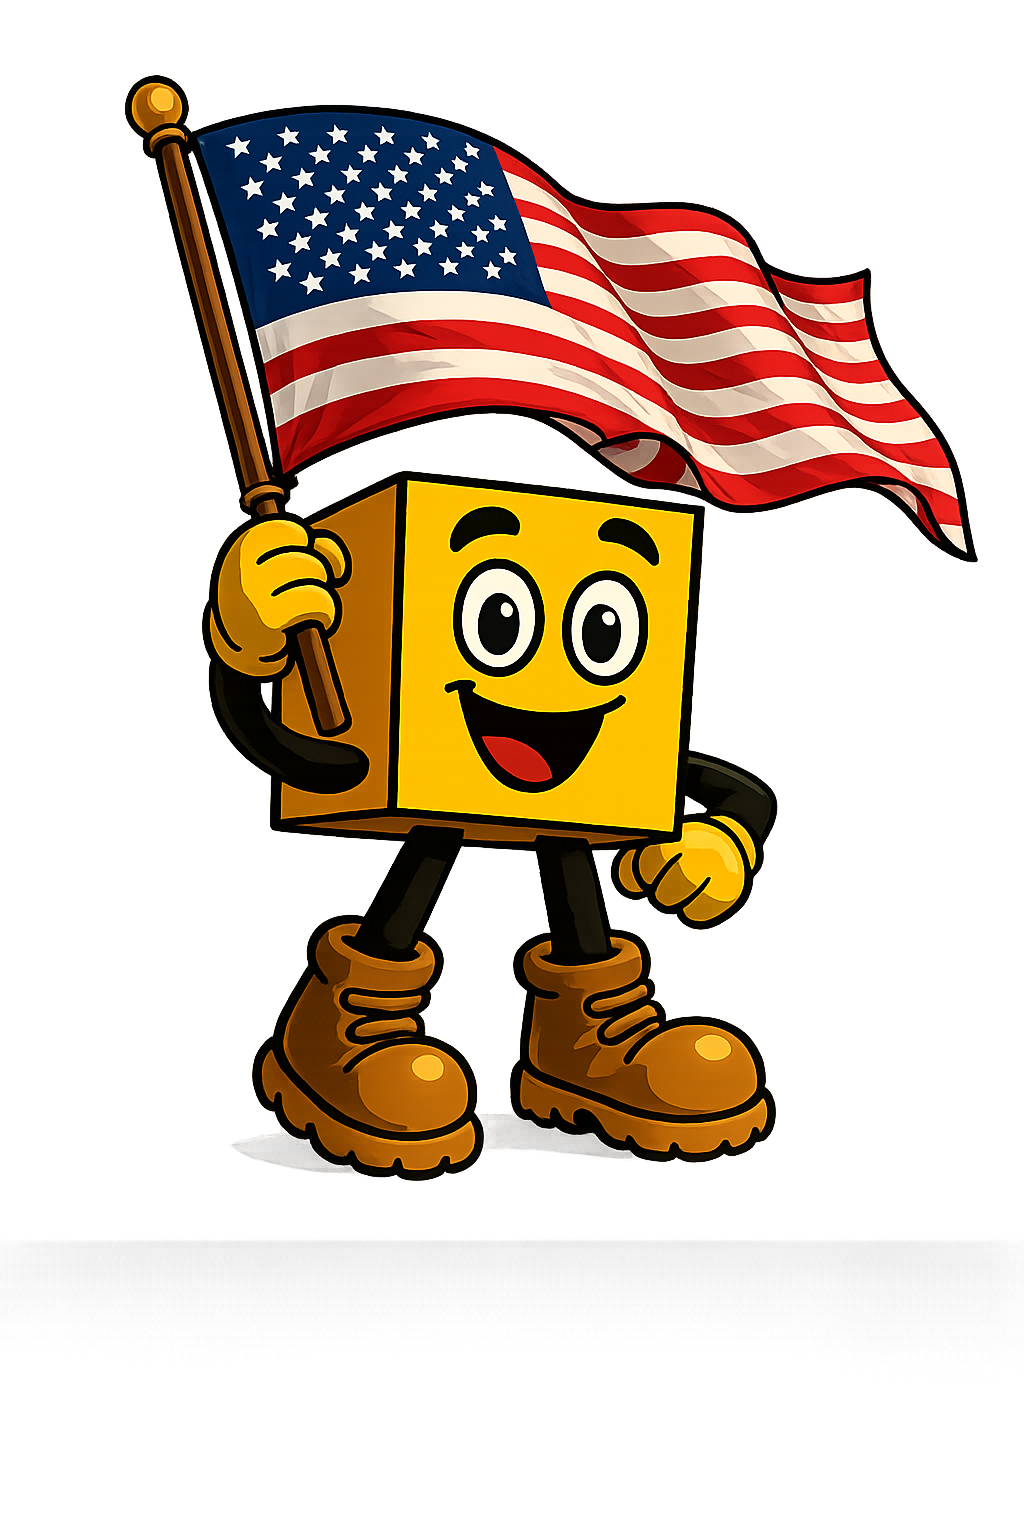
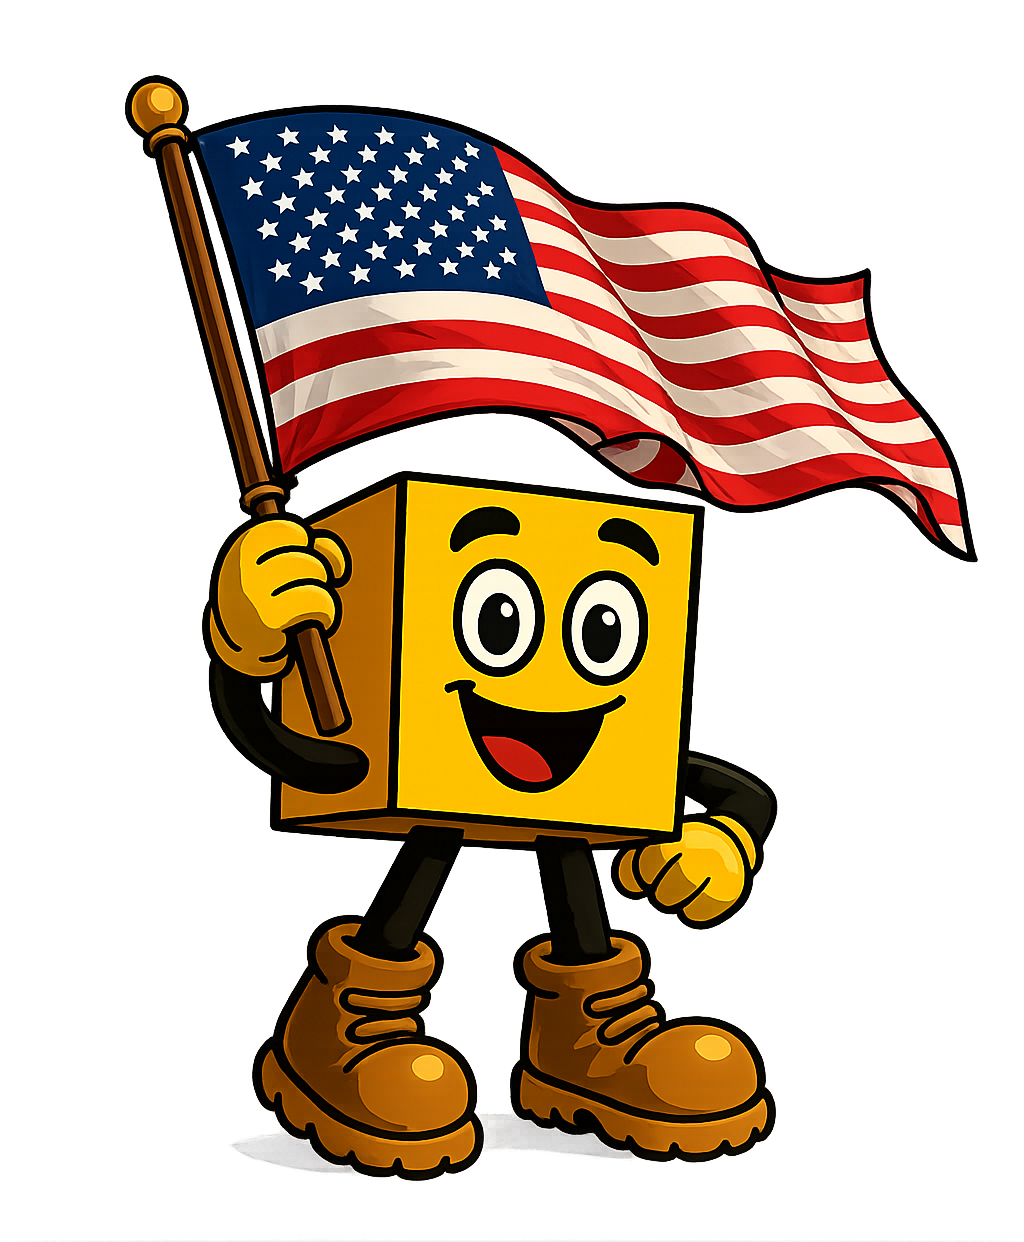
email blast weekly update

diff --git a/assets/emailblasts/weekly-2026-06-29.html b/assets/emailblasts/weekly-2026-06-29.html
@@ -1,0 +1,179 @@
+<!DOCTYPE html>
+<html lang="en" style="margin:0;padding:0;">
+  <head>
+    <meta charset="utf-8">
+    <meta name="x-apple-disable-message-reformatting">
+    <meta name="viewport" content="width=device-width, initial-scale=1">
+    <title>Daytona Supply - 4th of July Prep Guide</title>
+    <style type="text/css">
+      :root { color-scheme: light only; }
+      @media screen and (max-width: 600px) {
+        .container { width: 100% !important; }
+        .stack { display: block !important; width: 100% !important; }
+        .pad { padding-left: 16px !important; padding-right: 16px !important; }
+        .mobile-center { text-align: center !important; }
+        .mobile-space { padding-top: 14px !important; }
+        .hero-copy { padding: 24px 16px 14px 16px !important; }
+        .hero-art { padding: 0 16px 24px 16px !important; }
+        .cta { display: block !important; width: 100% !important; box-sizing: border-box !important; margin: 10px 0 0 0 !important; }
+      }
+    </style>
+  </head>
+  <body style="margin:0; padding:0; background:#edf2fa; font-family:-apple-system, BlinkMacSystemFont, 'Segoe UI', Roboto, Arial, sans-serif; color:#1f3050;">
+
+    <div style="display:none; max-height:0; overflow:hidden; opacity:0; visibility:hidden;">
+      Fourth of July is right around the corner. Restock shipping, cleaning, and breakroom essentials before the holiday rush.
+    </div>
+
+    <table role="presentation" width="100%" cellpadding="0" cellspacing="0" border="0" style="background:#edf2fa;">
+      <tr>
+        <td align="center" style="padding:24px 12px;">
+          <table role="presentation" class="container" width="640" cellpadding="0" cellspacing="0" border="0" style="width:640px; max-width:100%; background:#ffffff; border-radius:26px; overflow:hidden; box-shadow:0 10px 28px rgba(23, 55, 100, 0.14);">
+
+            <tr>
+              <td style="padding:0;">
+                <table role="presentation" width="100%" cellpadding="0" cellspacing="0" border="0">
+                  <tr>
+                    <td width="20%" style="font-size:0; line-height:0; height:8px; background:#be2c38;">&nbsp;</td>
+                    <td width="20%" style="font-size:0; line-height:0; height:8px; background:#ffffff;">&nbsp;</td>
+                    <td width="20%" style="font-size:0; line-height:0; height:8px; background:#1d3f73;">&nbsp;</td>
+                    <td width="20%" style="font-size:0; line-height:0; height:8px; background:#ffffff;">&nbsp;</td>
+                    <td width="20%" style="font-size:0; line-height:0; height:8px; background:#be2c38;">&nbsp;</td>
+                  </tr>
+                </table>
+              </td>
+            </tr>
+
+            <tr>
+              <td style="background:#173861; padding:18px 24px 16px 24px; color:#ffffff;">
+                <table role="presentation" width="100%" cellpadding="0" cellspacing="0" border="0">
+                  <tr>
+                    <td class="stack mobile-center" style="vertical-align:middle;">
+                      <a href="https://www.daytona-supply.com/" style="display:inline-block; text-decoration:none; border:0;">
+                        <img src="https://www.daytona-supply.com/assets/images/Logowhite.png" alt="Daytona Supply" height="30" style="display:block; height:30px; width:auto; border:0; outline:none; text-decoration:none;">
+                      </a>
+                    </td>
+                    <td class="stack mobile-center mobile-space" align="right" style="vertical-align:middle; font-size:12px; letter-spacing:1.2px; text-transform:uppercase; color:#dbe6f8;">
+                      Monday, June 29, 2026
+                    </td>
+                  </tr>
+                </table>
+              </td>
+            </tr>
+
+            <tr>
+              <td style="background:#173861; padding:0 0 28px 0;">
+                <table role="presentation" width="100%" cellpadding="0" cellspacing="0" border="0">
+                  <tr>
+                    <td class="stack hero-copy" width="52%" style="padding:30px 12px 8px 28px; vertical-align:top; color:#ffffff;">
+                      <div style="display:inline-block; padding:7px 12px; border-radius:999px; background:#be2c38; color:#ffffff; font-size:11px; font-weight:800; letter-spacing:1.2px; text-transform:uppercase;">
+                        Week of June 29
+                      </div>
+                      <div style="margin-top:18px; font-family:Georgia, 'Times New Roman', serif; font-size:42px; line-height:1.02; font-weight:700; letter-spacing:-0.5px; color:#ffffff;">
+                        4th of July
+                        <br>
+                        Restock Guide
+                      </div>
+                      <div style="margin-top:16px; max-width:270px; font-size:16px; line-height:1.8; color:#dbe6f8;">
+                        Holiday traffic ramps up fast. Lock in the basics now so your team can move through the week without supply gaps.
+                      </div>
+                    </td>
+                    <td class="stack hero-art mobile-center" width="48%" align="center" style="padding:24px 28px 0 12px; vertical-align:bottom;">
+                      <div style="background:#ffffff; border:4px solid #dbe5f4; border-radius:24px; padding:18px 12px 6px 12px;">
+                        <img src="https://www.daytona-supply.com/assets/images/Boxeywavingusflag.png?v=20260626" alt="Boxey waving a US flag" width="260" style="display:block; width:260px; max-width:100%; height:auto; margin:0 auto; border:0;">
+                        <div style="margin-top:10px; font-size:13px; line-height:1.5; color:#5d6e88;">
+                          Boxey says: don't be square, prepare!
+                        </div>
+                      </div>
+                    </td>
+                  </tr>
+                </table>
+              </td>
+            </tr>
+
+            <tr>
+              <td class="pad" style="padding:0 24px 24px 24px; background:#f7faff;">
+                <div style="margin-top:-2px; background:#ffffff; border:2px solid #d8e3f1; border-radius:22px; padding:24px 22px 20px 22px; text-align:center; box-shadow:0 8px 18px rgba(29, 63, 115, 0.06);">
+                  <div style="font-size:12px; font-weight:800; letter-spacing:1.3px; text-transform:uppercase; color:#be2c38;">
+                    Holiday week essentials
+                  </div>
+                  <div style="margin-top:10px; font-family:Georgia, 'Times New Roman', serif; font-size:30px; line-height:1.2; font-weight:700; color:#1f3050;">
+                    Restock what runs out first.
+                  </div>
+                  <div style="margin-top:12px; max-width:520px; margin-left:auto; margin-right:auto; font-size:15px; line-height:1.9; color:#54657e;">
+                    Before the 4th of July push, most teams burn through shipping supplies, cleaning products, and paper goods faster than expected.
+                  </div>
+
+                  <table role="presentation" width="100%" cellpadding="0" cellspacing="0" border="0" style="margin-top:18px;">
+                    <tr>
+                      <td class="stack" width="33.33%" style="padding:8px; vertical-align:top;">
+                        <div style="background:#f8fbff; border:1px solid #d8e3f1; border-radius:16px; padding:16px 12px;">
+                          <div style="font-size:11px; font-weight:800; letter-spacing:1.2px; text-transform:uppercase; color:#1d3f73;">Ship it</div>
+                          <div style="margin-top:8px; font-size:18px; font-weight:700; color:#1f3050;">Tape and mailers</div>
+                          <div style="margin-top:8px; font-size:13px; line-height:1.7; color:#61738d;">Keep orders moving with sealing and lightweight protection supplies ready at every station.</div>
+                        </div>
+                      </td>
+                      <td class="stack" width="33.33%" style="padding:8px; vertical-align:top;">
+                        <div style="background:#fff8f8; border:1px solid #ecd5d7; border-radius:16px; padding:16px 12px;">
+                          <div style="font-size:11px; font-weight:800; letter-spacing:1.2px; text-transform:uppercase; color:#be2c38;">Clean it</div>
+                          <div style="margin-top:8px; font-size:18px; font-weight:700; color:#1f3050;">Soap and sanitizer</div>
+                          <div style="margin-top:8px; font-size:13px; line-height:1.7; color:#61738d;">Make sure high-traffic customer and employee areas stay stocked through the weekend.</div>
+                        </div>
+                      </td>
+                      <td class="stack" width="33.33%" style="padding:8px; vertical-align:top;">
+                        <div style="background:#f8fbff; border:1px solid #d8e3f1; border-radius:16px; padding:16px 12px;">
+                          <div style="font-size:11px; font-weight:800; letter-spacing:1.2px; text-transform:uppercase; color:#1d3f73;">Serve it</div>
+                          <div style="margin-top:8px; font-size:18px; font-weight:700; color:#1f3050;">Paper products</div>
+                          <div style="margin-top:8px; font-size:13px; line-height:1.7; color:#61738d;">Breakrooms and service counters run smoother with towels, tissues, cups, and liners in backup.</div>
+                        </div>
+                      </td>
+                    </tr>
+                  </table>
+
+                  <div style="margin-top:18px; font-size:14px; line-height:1.8; color:#54657e; max-width:520px; margin-left:auto; margin-right:auto;">
+                    If you want a faster holiday-week reorder list, we can help build it for pickup or delivery.
+                  </div>
+                  <div style="margin-top:18px;">
+                    <a class="cta" href="https://www.daytona-supply.com/catalogue.php" style="display:inline-block; padding:12px 18px; background:#be2c38; color:#ffffff; text-decoration:none; border-radius:999px; font-size:14px; font-weight:800; letter-spacing:0.2px; margin-right:8px;">
+                      Browse the catalogue
+                    </a>
+                    <a class="cta" href="https://www.daytona-supply.com/contact.php" style="display:inline-block; padding:12px 18px; background:#ffffff; color:#1d3f73; border:1px solid #1d3f73; text-decoration:none; border-radius:999px; font-size:14px; font-weight:800; letter-spacing:0.2px;">
+                      Contact us
+                    </a>
+                  </div>
+                </div>
+              </td>
+            </tr>
+
+            <tr>
+              <td bgcolor="#16325d" style="padding:18px 24px; color:#ffffff; font-size:12px;">
+                <div style="font-weight:700; font-size:13px;">Daytona Supply</div>
+                <div style="margin-top:2px;">1022 Reed Canal Rd, Daytona Beach, FL 32119</div>
+                <div style="margin-top:2px;">Call: [phone redacted]</div>
+                <div style="margin-top:8px;">
+                  <a href="https://www.daytona-supply.com/" style="color:#ffffff; text-decoration:underline; font-weight:600;">Home</a> ·
+                  <a href="https://www.daytona-supply.com/catalogue.php" style="color:#ffffff; text-decoration:underline; font-weight:600;">Catalogue</a> ·
+                  <a href="https://www.daytona-supply.com/about.php" style="color:#ffffff; text-decoration:underline; font-weight:600;">About Us</a> ·
+                  <a href="https://www.daytona-supply.com/contact.php" style="color:#ffffff; text-decoration:underline; font-weight:600;">Contact</a> ·
+                  <a href="https://www.daytona-supply.com/terms.php" style="color:#ffffff; text-decoration:underline; font-weight:600;">Terms</a> ·
+                  <a href="https://www.daytona-supply.com/privacy.php" style="color:#ffffff; text-decoration:underline; font-weight:600;">Privacy</a>
+                </div>
+                <div style="margin-top:10px; font-size:12px; color:rgba(255,255,255,0.9);">
+                  Copyright 2026 Daytona Supply. All rights reserved.
+                </div>
+                <div style="margin-top:10px;">
+                  <a href="%%unsubscribe_link%%" style="color:#ffffff; text-decoration:underline;">Unsubscribe</a>
+                </div>
+              </td>
+            </tr>
+          </table>
+
+          <div style="margin-top:10px; font-size:12px; color:#5c6f8b;">
+            View this email in your browser:
+            <a href="%%web_view%%" style="color:#be2c38; text-decoration:underline;">Open web version</a>
+          </div>
+        </td>
+      </tr>
+    </table>
+  </body>
+</html>